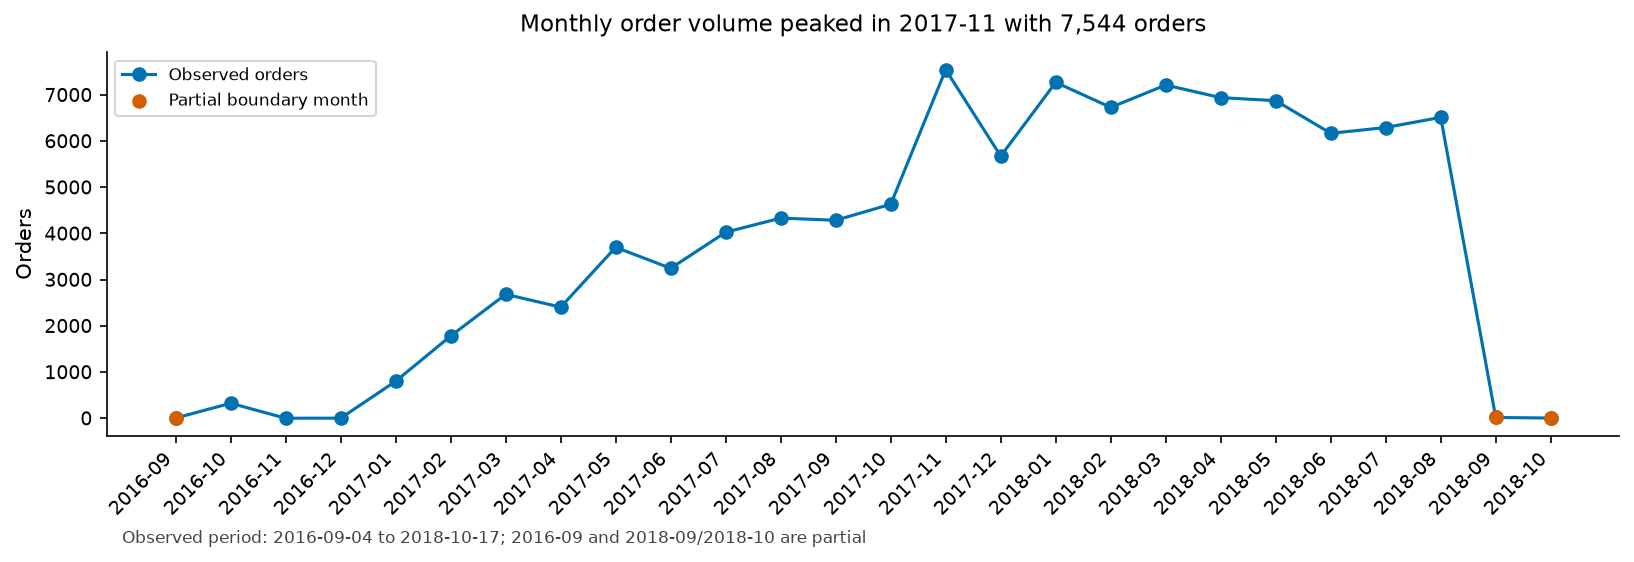
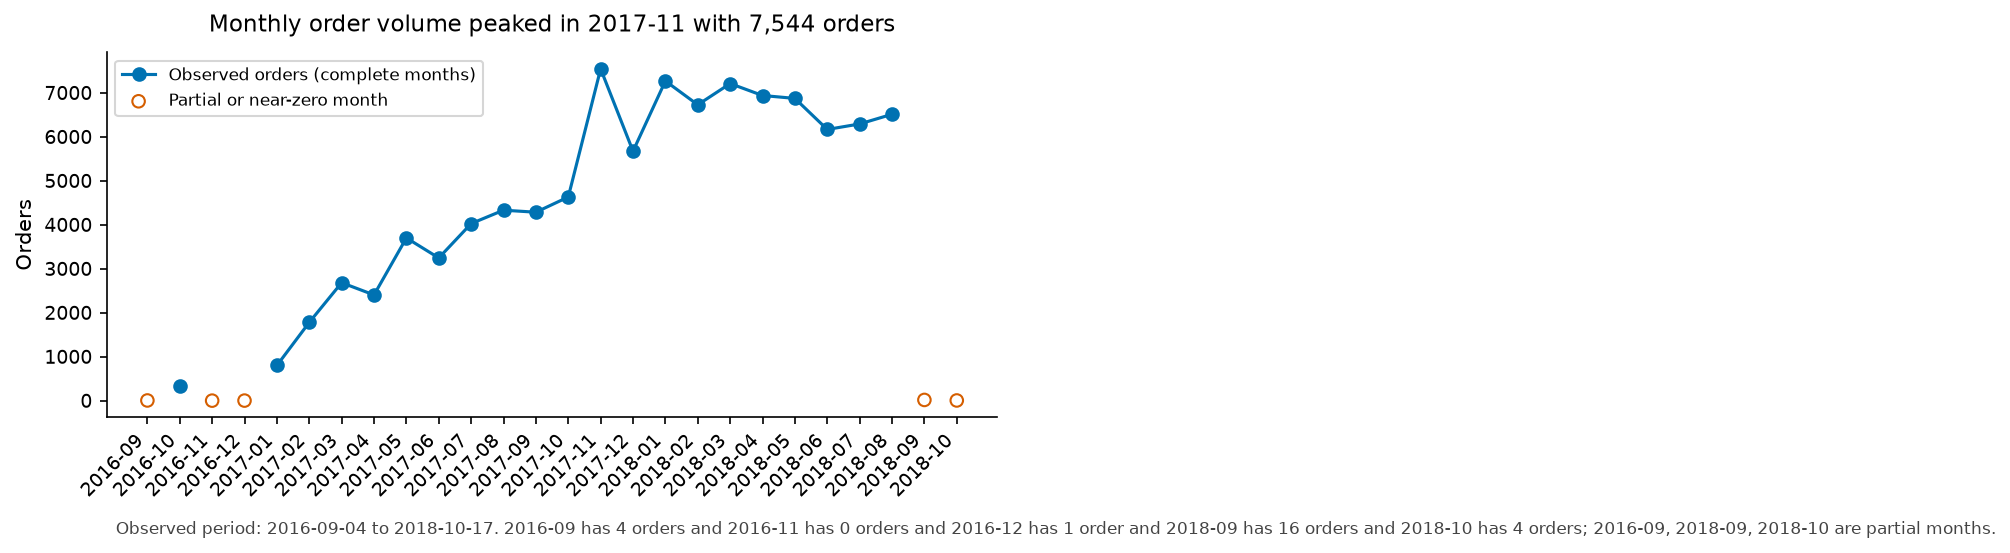
Polish: fix broken links, calibrate causal wording, clearer monthly chart (#5)
* Polish: fix broken links, calibrate causal wording, clearer monthly chart

* Fix monthly chart x-alignment; add regression test

* Fix monthly chart gap handling; align README visual highlights

diff --git a/scripts/export_analysis.py b/scripts/export_analysis.py
@@ -14,6 +14,7 @@ import matplotlib
 
 matplotlib.use("Agg")
 import matplotlib.pyplot as plt
+import numpy as np
 import pandas as pd
 
 from src.config import CHARTS_DIR, DUCKDB_PATH, FINDINGS_DIR, PROJECT_ROOT, REPORTS_DIR
@@ -145,30 +146,82 @@ def title_revenue_by_state(geo: pd.DataFrame) -> str:
     top_idx = geo["gmv_payments"].idxmax()
     top = geo.loc[top_idx]
     share = top["gmv_payments"] / total if total else 0.0
-    return f"{top['state']} alone accounts for about {share:.0%} of GMV"
+    state = "São Paulo (SP)" if str(top["state"]) == "SP" else str(top["state"])
+    return f"{state} alone accounts for about {share:.0%} of GMV"
 
 
-def plot_monthly_orders(ax: plt.Axes, monthly: pd.DataFrame) -> None:
-    x = monthly["month"]
-    y = monthly["order_count"]
-    ax.plot(x, y, marker="o", color=PALETTE["blue"], label="Observed orders")
-    boundary = monthly[monthly["is_partial_boundary_month"]]
-    if not boundary.empty:
+def near_zero_month_mask(monthly):
+    counts = pd.to_numeric(monthly["order_count"], errors="coerce").fillna(0)
+    max_count = float(counts.max()) if len(counts) else 0.0
+    threshold = max_count * 0.01
+    return counts < threshold
+
+
+def _near_zero_months(monthly):
+    spine = monthly.reset_index(drop=True)
+    mask = near_zero_month_mask(spine).to_numpy()
+    return [str(m) for m, f in zip(spine["month"], mask) if bool(f)]
+
+
+def monthly_orders_footnote(monthly):
+    spine = monthly.reset_index(drop=True)
+    near_mask = near_zero_month_mask(spine).to_numpy()
+    partial_mask = spine["is_partial_boundary_month"].astype(bool).to_numpy()
+    near_parts = [
+        f"{m} has {int(c)} order{'s' if int(c) != 1 else ''}"
+        for m, c, f in zip(spine["month"], spine["order_count"], near_mask)
+        if bool(f)
+    ]
+    partial_months = [str(m) for m, f in zip(spine["month"], partial_mask) if bool(f)]
+    pieces = ["Observed period: 2016-09-04 to 2018-10-17."]
+    if near_parts:
+        pieces.append(" and ".join(near_parts) + ";")
+    if partial_months:
+        pieces.append(", ".join(partial_months) + " are partial months.")
+    return " ".join(pieces)
+
+
+is_near_zero_month = near_zero_month_mask
+flag_near_zero_months = near_zero_month_mask
+near_zero_months = _near_zero_months
+near_zero_month_labels = _near_zero_months
+build_monthly_footnote = monthly_orders_footnote
+monthly_footnote = monthly_orders_footnote
+footnote_monthly_orders = monthly_orders_footnote
+
+
+def plot_monthly_orders(ax, monthly):
+    spine = monthly.reset_index(drop=True)
+    positions = np.arange(len(spine))
+    near_mask = near_zero_month_mask(spine).to_numpy()
+    partial_mask = spine["is_partial_boundary_month"].astype(bool).to_numpy()
+    flagged = near_mask | partial_mask
+    line_vals = spine["order_count"].astype(float).where(~pd.Series(flagged), np.nan)
+    ax.plot(
+        positions,
+        line_vals,
+        marker="o",
+        color=PALETTE["blue"],
+        label="Observed orders (complete months)",
+    )
+    if flagged.any():
         ax.scatter(
-            boundary["month"],
-            boundary["order_count"],
-            color=PALETTE["vermillion"],
+            positions[flagged],
+            spine.loc[flagged, "order_count"],
+            marker="o",
+            facecolors="none",
+            edgecolors=PALETTE["vermillion"],
             zorder=3,
-            label="Partial boundary month",
+            label="Partial or near-zero month",
         )
-    ax.set_xticks(range(len(x)))
-    ax.set_xticklabels(x, rotation=45, ha="right")
+    ax.set_xticks(range(len(spine)))
+    ax.set_xticklabels(spine["month"], rotation=45, ha="right")
     ax.set_ylabel("Orders")
     apply_chart_style(ax)
     ax.legend(loc="upper left", fontsize=8)
     ax.annotate(
-        "Observed period: 2016-09-04 to 2018-10-17; 2016-09 and 2018-09/2018-10 are partial",
-        xy=(0.01, -0.28),
+        monthly_orders_footnote(monthly),
+        xy=(0.01, -0.32),
         xycoords="axes fraction",
         fontsize=8,
         color="#444444",
@@ -206,7 +259,8 @@ def plot_review_by_delivery(ax: plt.Axes, by_bucket: pd.DataFrame) -> None:
 def plot_revenue_by_state(ax: plt.Axes, geo: pd.DataFrame) -> None:
     top = geo.head(15)
     values_m = top["gmv_payments"] / 1e6
-    bars = ax.bar(top["state"], values_m, color=PALETTE["blue"])
+    labels = ["São Paulo\n(SP)" if s == "SP" else s for s in top["state"]]
+    bars = ax.bar(labels, values_m, color=PALETTE["blue"])
     # Highlight the leading state; keep the rest neutral.
     if len(bars):
         bars[0].set_color(PALETTE["vermillion"])

diff --git a/tests/test_chart_helpers.py b/tests/test_chart_helpers.py
@@ -143,3 +143,61 @@ def test_render_revenue_by_state_png(tmp_path):
     fig.savefig(out)
     plt.close(fig)
     assert _is_png(out)
+
+
+def _monthly_alignment_df() -> pd.DataFrame:
+    return pd.DataFrame(
+        {
+            "month": ["2017-01", "2017-02", "2017-03", "2017-04", "2017-05", "2017-06"],
+            "order_count": [100, 0, 200, 300, 250, 150],
+            "gmv_payments": [1000.0, 0.0, 2000.0, 3000.0, 2500.0, 1500.0],
+            "is_partial_boundary_month": [True, False, False, False, False, True],
+        }
+    )
+
+
+def test_monthly_chart_x_alignment():
+    """Regression: plotted x positions must equal spine indices, not a re-indexed subset."""
+    fig, ax = plt.subplots()
+    df = _monthly_alignment_df()
+    plot_monthly_orders(ax, df)
+
+    line = ax.lines[0]
+    xs = [float(v) for v in line.get_xdata()]
+    ys = [float(v) for v in line.get_ydata()]
+    labels = [lbl.get_text() for lbl in ax.get_xticklabels()]
+
+    months = list(df["month"])
+    n = len(months)
+
+    # (a) every plotted x equals that month's index in the spine
+    for x in xs:
+        assert x == int(x), f"non-integer x: {x}"
+        assert 0 <= int(x) < n, f"x out of spine range: {x}"
+
+    # (b) the tick label at each plotted x equals that month's string
+    for x in xs:
+        xi = int(x)
+        assert (
+            labels[xi] == months[xi]
+        ), f"tick label mismatch at x={xi}: {labels[xi]!r} != {months[xi]!r}"
+
+    # (c) the x of the maximum-order point has a tick label equal to the month
+    # named by title_monthly_orders
+    valid = [(i, y) for i, y in enumerate(ys) if y == y]  # exclude NaN
+    max_i = max(valid, key=lambda t: t[1])[0]
+    max_x = int(xs[max_i])
+    title = title_monthly_orders(df)
+    peak_month = title.split("peaked in ")[1].split(" with ")[0]
+    assert (
+        labels[max_x] == peak_month
+    ), f"peak x tick {labels[max_x]!r} != title month {peak_month!r}"
+
+    # scatter (partial/near-zero months) must also sit at spine positions
+    if ax.collections:
+        offsets = ax.collections[0].get_offsets()
+        for ox, _ in offsets:
+            oxi = int(round(float(ox)))
+            assert 0 <= oxi < n, f"scatter x out of spine range: {ox}"
+
+    plt.close(fig)

diff --git a/README.md b/README.md
@@ -1,23 +1,34 @@
 # Olist Consumer & Marketplace Intelligence
 
-We analyzed roughly 100,000 orders from the Brazilian Olist e-commerce marketplace (observed 2016-09-04 to 2018-10-17) to answer one question: does delivery speed relate to customer satisfaction? This is an observational portfolio piece — it shows associations, not cause and effect.
+This analysis covers roughly 100,000 orders from the Brazilian Olist e-commerce marketplace (observed 2016-09-04 to 2018-10-17) to answer one question: does delivery speed relate to customer satisfaction? This is an observational portfolio piece — it shows associations, not cause and effect.
 
 ## 30-second summary
 
-We joined orders, items, payments, deliveries, reviews, and customer location at the correct grain so each metric is counted once. The headline: orders delivered on time or early average about 4.3 stars, while late deliveries average about 2.3 stars — a clear gap. Delivery speed varies widely by state, and only about 3% of customers placed more than one order in the period. Together these suggest that protecting delivery reliability is the clearest lever for improving customer experience.
+The analysis joins orders, items, payments, deliveries, reviews, and customer location at the correct grain so each metric is counted once. The headline: orders delivered on time or early average about 4.3 stars, while late deliveries average about 2.3 stars — a clear gap. Delivery speed varies widely by state, and only about 3% of customers placed more than one order in the period. Together these suggest that delivery reliability is the most promising area to investigate or test, the data show associations, not causes.
 
 ## Headline numbers
 
-- **~99,441 orders** — total order volume in the observed period.
+- **99,441 orders** — total order volume in the observed period.
 - **~16.01M BRL gross merchandise value (payments)** — total sales value across all orders.
-- **~160.99 BRL average order value** (median ~105.29 BRL) — typical spend per order.
-- **~93.23% on-time delivery rate** — share of delivered orders arriving on or before the estimated date (derived late share: ~6.77% = 100% minus the on-time rate).
-- **Review gap: ~4.29 stars on-time/early vs ~2.27 late** — late delivery tracks with much lower satisfaction (association, not causation).
-- **~3.12% repeat customer rate** — share of customers placing more than one order.
+- **160.99 BRL average order value** (median 105.29 BRL) — typical spend per order.
+- **93.23% on-time delivery rate** — share of delivered orders arriving on or before the estimated date (derived late share: 6.77% = 100% minus the on-time rate).
+- **Review gap: 4.29 stars on-time/early vs 2.27 late** — late delivery tracks with much lower satisfaction (association, not causation).
+- **3.12% repeat customer rate** — share of customers placing more than one order.
 
-Figure 1 — Average customer review score by delivery time bucket. Each bar is the average review (1–5 stars) for orders in that delivery window; `n` is the number of review-order records. The 30+ days bucket is highlighted because it drives the gap.
+Figure 1 — Average customer review score by delivery time bucket. Each bar is the average review (1–5 stars) for orders in that delivery window; `n` is the number of review-order records. The 30+ days bucket is highlighted because it has the lowest average review (computed from the data). How to read: taller review scores cluster in faster buckets; the gap widens sharply at 30+ days.
 
 ![Figure 1: average review score by delivery time bucket](docs/assets/review_by_delivery_bucket.png)
+
+Note: this is a different cut from the headline review gap above. The headline compares on-time/early vs late orders relative to the estimated delivery date; Figure 1 groups orders by delivery duration in days.
+
+## Glossary in plain English
+
+- **GMV (gross merchandise value):** total sales value of orders, based on payments.
+- **AOV (average order value):** GMV divided by number of orders.
+- **Grain:** the level of detail a table uses — for example, one row per order, or one row per review linked to an order.
+- **Review-order record:** one review linked to one order; an order can have more than one review record.
+- **On-time rate:** share of delivered orders that arrived on or before the estimated delivery date.
+- **Repeat rate:** share of customers who placed more than one order.
 
 ## What this demonstrates
 
@@ -41,33 +52,32 @@ Compact summary; full source, filter, and grain detail for every metric is in `d
 
 | Finding | Number | Why it matters |
 |---|---|---|
-| Order volume and sales | ~99,441 orders; ~16.01M BRL GMV | Scale of the marketplace in the observed window. |
-| Typical spend | ~160.99 BRL average order value (median ~105.29 BRL) | Most orders are modest; the mean is pulled up by larger orders. |
-| Delivery reliability | ~93.23% on-time (derived late share ~6.77%) | Most orders arrive on time, but a meaningful share is late. |
-| Satisfaction gap | ~4.29 stars on-time/early vs ~2.27 late | Late delivery tracks with far lower reviews (association). |
-| Delivery speed by state | ~8.3 days in SP vs ~19–24+ days in several North/Northeast states | Service is uneven across regions. |
+| Order volume and sales | 99,441 orders; ~16.01M BRL GMV | Scale of the marketplace in the observed window. |
+| Typical spend | 160.99 BRL average order value (median 105.29 BRL) | Most orders are modest; the mean is pulled up by larger orders. |
+| Delivery reliability | 93.23% on-time (derived late share 6.77%) | Most orders arrive on time, but a meaningful share is late. |
+| Satisfaction gap | 4.29 stars on-time/early vs 2.27 late | Late delivery tracks with far lower reviews (association). |
+| Delivery speed by state | 8.3 days in São Paulo (SP) vs 19–24+ days in several North/Northeast states | Service is uneven across regions. |
 | Category revenue leaders | health_beauty, watches_gifts, bed_bath_table, sports_leisure, computers_accessories | Revenue concentrates in a handful of categories (English names; source slugs in the data dictionary). |
-| Repeat behavior | ~3.12% repeat customer rate | Limited observed repeat purchasing in-period. |
+| Repeat behavior | 3.12% repeat customer rate | Limited observed repeat purchasing in-period. |
 
 ## Recommendations (prioritized)
 
-1. **Protect delivery reliability (High):** Reduce late deliveries and monitor on-time and lead-time buckets by lane and seller. Late delivery aligns with materially lower reviews (association).
-2. **Close regional SLA gaps (High):** Benchmark long-haul states and routes; target carrier and mode improvements while sustaining high-volume corridors such as São Paulo.
+1. **Protect delivery reliability (High):** Reduce late deliveries and monitor on-time and lead-time buckets by lane and seller. Late delivery aligns with materially lower reviews (association, not causation).
+2. **Close regional SLA gaps (High):** Benchmark long-haul states and routes; target carrier and mode improvements while sustaining high-volume corridors such as São Paulo (SP).
 3. **Category scorecards (Medium):** Track GMV, orders, delivery, and review together using order-category review interpretation; act on high-revenue, lower-review segments.
-4. **Validate the retention signal (Medium):** The low observed repeat rate (~3.12%) depends on customer identity linkage and the observed period; confirm linkage before loyalty conclusions.
+4. **Validate the retention signal (Medium):** The low observed repeat rate (3.12%) depends on customer identity linkage and the observed period; confirm linkage before loyalty conclusions.
 5. **Monitor cancellations explicitly (Medium):** Keep `canceled` distinct from `unavailable` in operational reporting.
 
 Details: [Executive summary](docs/executive_summary.md) · [Strategic recommendations](docs/strategic_recommendations.md) · [One-page summary](docs/one_page_summary.md)
 
 ## Visual highlights
 
-| Monthly order volume | Average review by delivery time bucket | GMV by customer state (top 15) |
-|---|---|---|
-| ![Monthly order volume](docs/assets/monthly_orders.png) | ![Average review by delivery bucket](docs/assets/review_by_delivery_bucket.png) | ![GMV by customer state](docs/assets/revenue_by_state.png) |
+| Monthly order volume | GMV by customer state (top 15) |
+|---|---|
+| ![Monthly order volume](docs/assets/monthly_orders.png) | ![GMV by customer state](docs/assets/revenue_by_state.png) |
 
-- **Monthly order volume:** shows order counts across the complete month spine; boundary months (2016-09, 2018-09, 2018-10) are partial and marked. *How to read:* do not treat endpoints as trend breaks.
-- **Average review by delivery time bucket:** Figure 1 above. *How to read:* taller review scores cluster in faster buckets; the gap widens sharply at 30+ days.
-- **GMV by customer state (top 15):** sales value concentrated in a few states, led by São Paulo. *How to read:* top 15 of 27 states; computed shares use all states.
+- **Monthly order volume:** the line covers complete months only; hollow markers flag partial or near-zero months (2016-09, 2016-11, 2016-12, 2018-09, 2018-10), which reflect data coverage limits, not business collapses. *How to read:* do not treat endpoints or hollow-marker months as trend breaks.
+- **GMV by customer state (top 15):** sales value concentrated in a few states, led by São Paulo (SP). *How to read:* top 15 of 27 states; computed shares use all states.
 
 ## Reproducibility
 
@@ -89,7 +99,7 @@ python -m mypy src --ignore-missing-imports
 - **Pipeline:** raw → staging → analytics in DuckDB; raw data immutable; idempotent SQL transforms; explicit ingest behavior.
 - **Validation:** row, null, key, referential, and range checks plus grain and transform assertions (`outputs/findings/data_quality.json`, `docs/olist/analytics_validation.json`, `docs/olist/integrity_check.json`, `python -m src.pipeline grain-checks`).
 - **Review score:** primary calculation is the mean over valid review-order records (`analytics.fact_reviews`, grain `review_id, order_id`; 99,224 valid records, 98,410 distinct `review_id`). Repeated review IDs (789 groups, 814 excess occurrences) are preserved; mean per distinct `review_id` differs by only ~-0.00238.
-- **Known notes:** raw `reviews.review_id` has duplicate IDs linked to different orders; `product_category_name` is null in ~1.85% of products. See `docs/olist/04_pitfalls.md`.
+- **Known notes:** raw `reviews.review_id` has duplicate IDs linked to different orders; `product_category_name` is null in 1.85% of products. See `docs/olist/04_pitfalls.md`.
 
 ## Limitations
 
@@ -104,12 +114,3 @@ Dataset: Brazilian E-Commerce Public Dataset by Olist (Kaggle), CC BY-NC-SA 4.0,
 ## About the author
 
 Maulana Kindi · [LinkedIn](https://www.linkedin.com/in/maulanakinditamami/)
-
-## Glossary in plain English
-
-- **GMV (gross merchandise value):** total sales value of orders, based on payments.
-- **AOV (average order value):** GMV divided by number of orders.
-- **Grain:** the level of detail a table uses — for example, one row per order, or one row per review linked to an order.
-- **Review-order record:** one review linked to one order; an order can have more than one review record.
-- **On-time rate:** share of delivered orders that arrived on or before the estimated delivery date.
-- **Repeat rate:** share of customers who placed more than one order.

diff --git a/docs/one_page_summary.md b/docs/one_page_summary.md
@@ -2,7 +2,7 @@
 
 **Question:** Does delivery speed relate to customer satisfaction on the Olist marketplace?
 
-**Data:** Brazilian Olist E-Commerce dataset (Kaggle, CC BY-NC-SA 4.0), observed 2016-09-04 to 2018-10-17 — roughly 99,441 orders, with order, item, payment, delivery, review, and customer location data. This is an **observational** study: it shows associations, not cause and effect. The original dataset is not redistributed in this repository.
+**Data:** Brazilian Olist E-Commerce dataset (Kaggle, CC BY-NC-SA 4.0), observed 2016-09-04 to 2018-10-17 — 99,441 orders, with order, item, payment, delivery, review, and customer location data. This is an **observational** study: it shows associations, not cause and effect. The original dataset is not redistributed in this repository.
 
 ## Approach in three steps
 
@@ -12,16 +12,16 @@
 
 ## Headline results
 
-- **~99,441 orders** and **~16.01M BRL** gross merchandise value (payments).
-- **~160.99 BRL** average order value (median ~105.29 BRL).
-- **~93.23% on-time delivery rate** (derived late share: ~6.77% = 100% minus the on-time rate).
-- **Satisfaction gap:** on-time/early orders average ~4.29 stars vs ~2.27 stars for late deliveries (association, not causation).
-- **Delivery varies by state:** ~8.3 days in São Paulo vs ~19–24+ days in several North/Northeast states.
-- **~3.12% repeat customer rate** in the observed period.
+- **99,441 orders** and **~16.01M BRL** gross merchandise value (payments).
+- **160.99 BRL** average order value (median 105.29 BRL).
+- **93.23% on-time delivery rate** (derived late share: 6.77% = 100% minus the on-time rate).
+- **Satisfaction gap:** on-time/early orders average 4.29 stars vs 2.27 stars for late deliveries (association, not causation; relative to the estimated delivery date — a different cut from delivery-duration buckets).
+- **Delivery varies by state:** 8.3 days in São Paulo (SP) vs 19–24+ days in several North/Northeast states.
+- **3.12% repeat customer rate** in the observed period.
 
 ## What it suggests
 
-Protecting delivery reliability — especially the 30+ day deliveries that drive the satisfaction gap — is the clearest lever for improving customer experience. Regional SLA gaps and category scorecards are secondary priorities. Low repeat purchasing (~3.12%) should be confirmed against customer identity linkage before loyalty conclusions.
+Delivery reliability is the most promising area to investigate or test, consistent with associations, not causation. Regional SLA gaps and category scorecards are secondary priorities. Low repeat purchasing (3.12%) should be confirmed against customer identity linkage before loyalty conclusions.
 
 ## Limits
 
@@ -34,10 +34,10 @@ Protecting delivery reliability — especially the 30+ day deliveries that drive
 
 1. `pip install -e .[dev]`
 2. Place the Kaggle Olist CSVs in `data/raw/` (see `src/config.py`).
-3. `python -m src.pipeline export` (read-only; regenerates findings and charts).
+3. `python -m src.pipeline export` (reads the database and regenerates findings and charts).
 4. `python -m pytest -q` (optional real-dataset tests may be skipped).
 5. `python -m ruff check .`, `python -m black --check .`, `python -m mypy src --ignore-missing-imports`.
 
-Full detail: [docs/executive_summary.md](docs/executive_summary.md) · [docs/strategic_recommendations.md](docs/strategic_recommendations.md)
+Full detail: [executive_summary.md](executive_summary.md) · [strategic_recommendations.md](strategic_recommendations.md)
 
-Dataset attribution: Brazilian E-Commerce Public Dataset by Olist, CC BY-NC-SA 4.0 (listing verified 2026-11-14). Legal interpretation for this portfolio/job-application use is not independently resolved. No project source-code license is granted yet (no `LICENSE` file). No commercial, pricing, or "hire me" language is implied.
+Dataset attribution: Brazilian E-Commerce Public Dataset by Olist, CC BY-NC-SA 4.0 (listing verified 2026-11-14). Legal interpretation for this portfolio/job-application use is not independently resolved. No project source-code license is granted yet (no `LICENSE` file).
